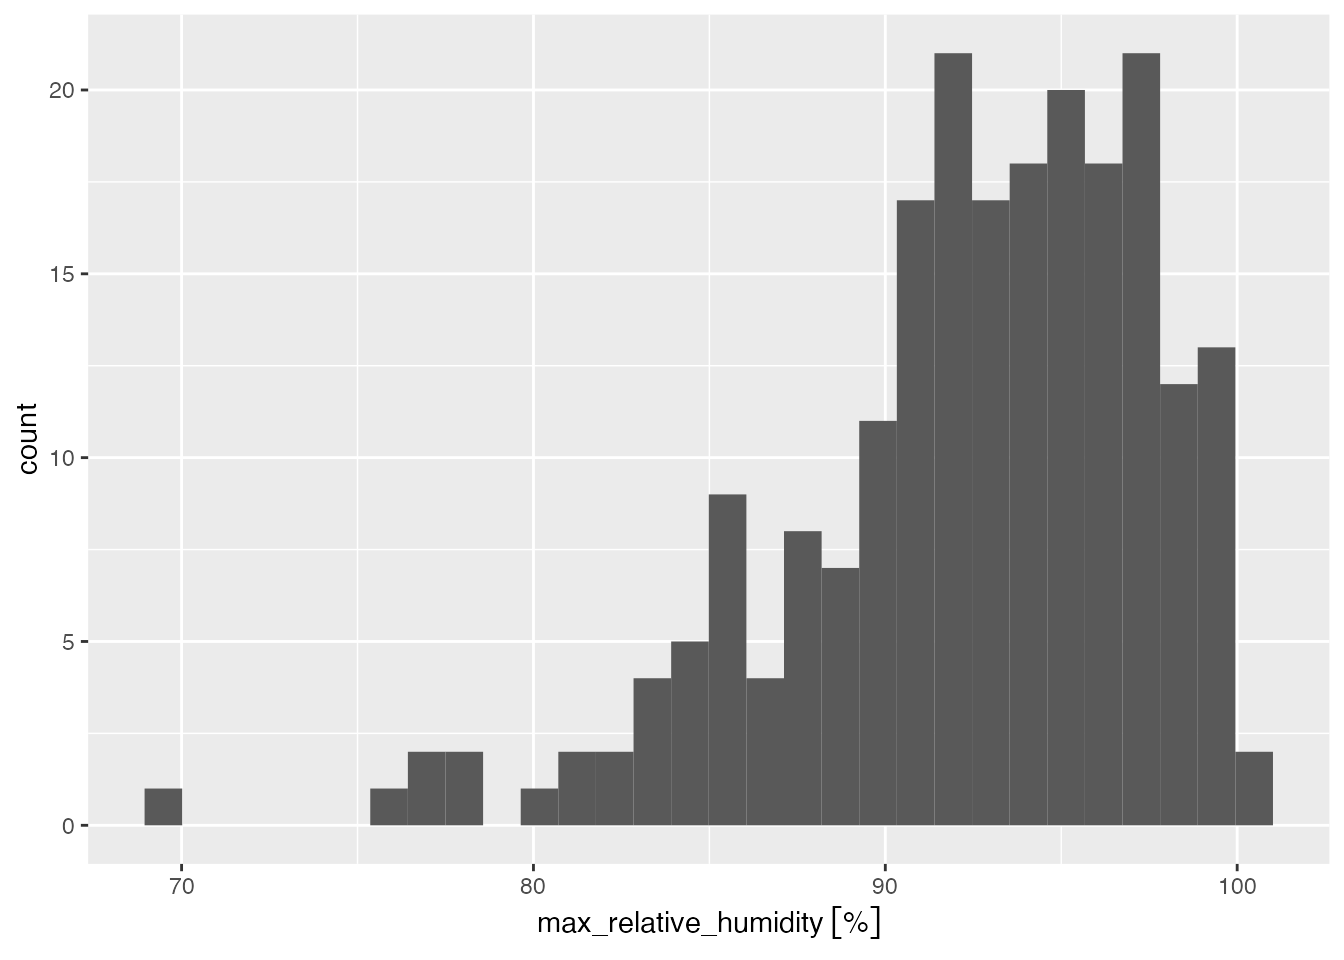
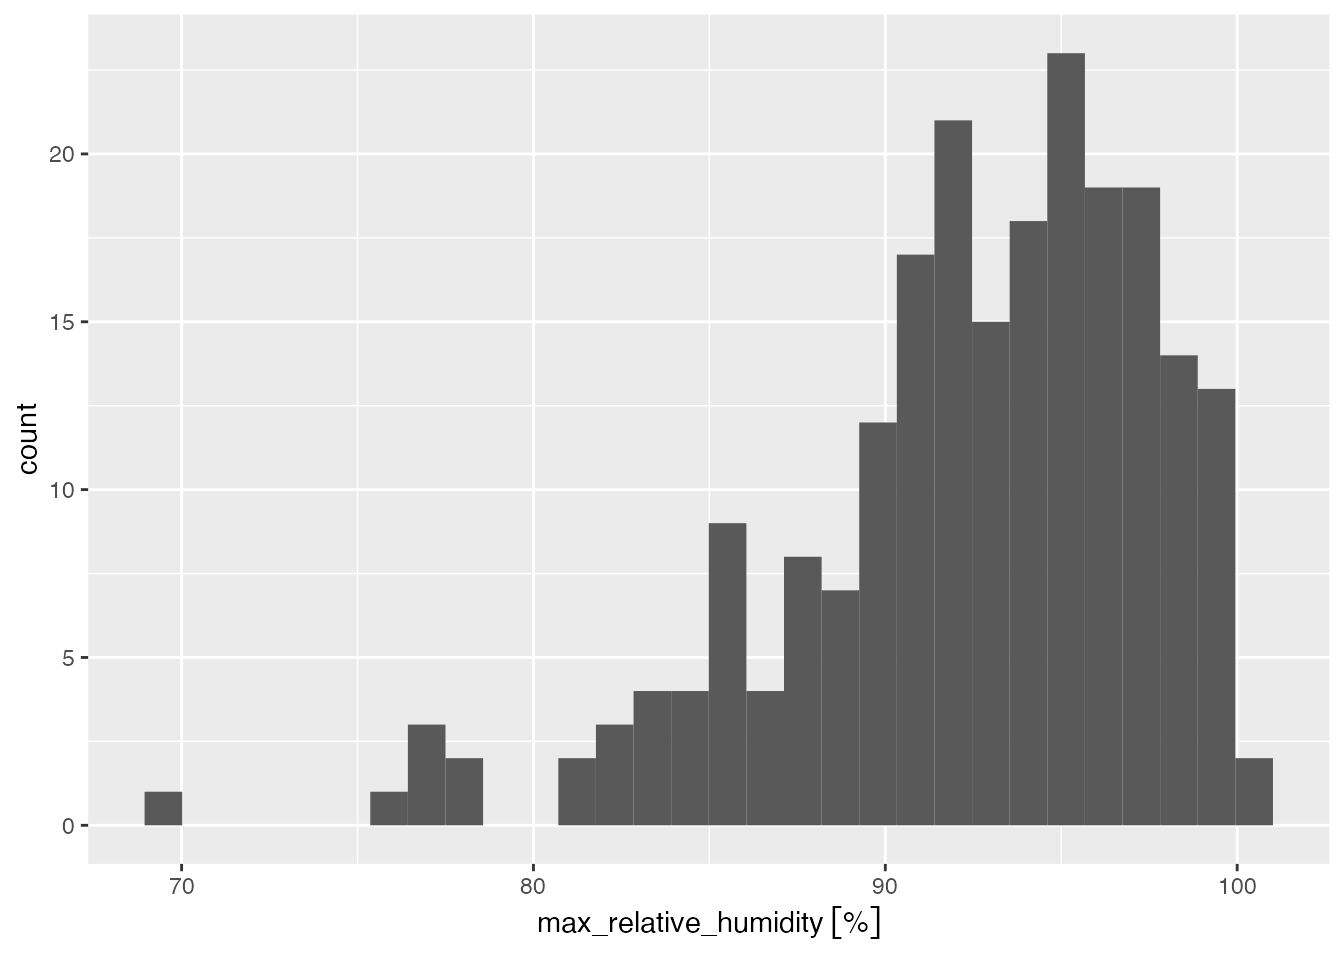
Built site for meteospain: 0.0.4.9000@31310f5

diff --git a/articles/meteoclimatic.html b/articles/meteoclimatic.html
@@ -156,12 +156,12 @@
 <p>Accessing station metadata for Meteoclimatic is simple:</p>
 <div class="sourceCode" id="cb3"><pre class="downlit sourceCode r">
 <code class="sourceCode R"><span><span class="fu"><a href="../reference/get_stations_info_from.html">get_stations_info_from</a></span><span class="op">(</span><span class="st">'meteoclimatic'</span>, options <span class="op">=</span> <span class="va">api_options</span><span class="op">)</span></span>
-<span><span class="co">#&gt; Simple feature collection with 219 features and 3 fields</span></span>
+<span><span class="co">#&gt; Simple feature collection with 222 features and 3 fields</span></span>
 <span><span class="co">#&gt; Geometry type: POINT</span></span>
 <span><span class="co">#&gt; Dimension:     XY</span></span>
 <span><span class="co">#&gt; Bounding box:  xmin: 1.59 ymin: 41.22 xmax: 2.72 ymax: 42.26</span></span>
 <span><span class="co">#&gt; Geodetic CRS:  WGS 84</span></span>
-<span><span class="co">#&gt; <span style="color: #949494;"># A tibble: 219 × 4</span></span></span>
+<span><span class="co">#&gt; <span style="color: #949494;"># A tibble: 222 × 4</span></span></span>
 <span><span class="co">#&gt;    service       station_id          station_name          geometry</span></span>
 <span><span class="co">#&gt;  <span style="color: #BCBCBC;">*</span> <span style="color: #949494; font-style: italic;">&lt;chr&gt;</span>         <span style="color: #949494; font-style: italic;">&lt;chr&gt;</span>               <span style="color: #949494; font-style: italic;">&lt;chr&gt;</span>              <span style="color: #949494; font-style: italic;">&lt;POINT [°]&gt;</span></span></span>
 <span><span class="co">#&gt; <span style="color: #BCBCBC;"> 1</span> meteoclimatic ESCAT0800000008591A Aiguafreda (Barc… (2.25 41.77)</span></span>
@@ -174,7 +174,7 @@
 <span><span class="co">#&gt; <span style="color: #BCBCBC;"> 8</span> meteoclimatic ESCAT0800000008911C Badalona - Dalt … (2.26 41.46)</span></span>
 <span><span class="co">#&gt; <span style="color: #BCBCBC;"> 9</span> meteoclimatic ESCAT0800000008917B Badalona - La Pa… (2.22 41.45)</span></span>
 <span><span class="co">#&gt; <span style="color: #BCBCBC;">10</span> meteoclimatic ESCAT0800000008080A Badalona - Llefi… (2.23 41.44)</span></span>
-<span><span class="co">#&gt; <span style="color: #949494;"># … with 209 more rows</span></span></span></code></pre></div>
+<span><span class="co">#&gt; <span style="color: #949494;"># … with 212 more rows</span></span></span></code></pre></div>
 </div>
 <div class="section level3">
 <h3 id="meteoclimatic-data">Meteoclimatic data<a class="anchor" aria-label="anchor" href="#meteoclimatic-data"></a>
@@ -185,25 +185,25 @@
 <span><span class="co"><span style="color: #BBBB00; font-weight: bold;">#&gt; No quality check is performed in this data, and errors in measures or coordinates of stations can be present.</span></span></span>
 <span><span class="co"><span style="color: #BBBB00; font-weight: bold;">#&gt; </span><span style="color: #0000BB; font-weight: bold; text-decoration: underline;">https://www.meteoclimatic.net/index</span></span></span>
 <span><span class="va">current_day_barcelona</span></span>
-<span><span class="co">#&gt; Simple feature collection with 219 features and 9 fields</span></span>
+<span><span class="co">#&gt; Simple feature collection with 222 features and 9 fields</span></span>
 <span><span class="co">#&gt; Geometry type: POINT</span></span>
 <span><span class="co">#&gt; Dimension:     XY</span></span>
 <span><span class="co">#&gt; Bounding box:  xmin: 1.59 ymin: 41.22 xmax: 2.72 ymax: 42.26</span></span>
 <span><span class="co">#&gt; Geodetic CRS:  WGS 84</span></span>
-<span><span class="co">#&gt; <span style="color: #949494;"># A tibble: 219 × 10</span></span></span>
+<span><span class="co">#&gt; <span style="color: #949494;"># A tibble: 222 × 10</span></span></span>
 <span><span class="co">#&gt;    timestamp           service   stati…¹ stati…² min_t…³ max_t…⁴ min_r…⁵ max_r…⁶</span></span>
 <span><span class="co">#&gt;  <span style="color: #BCBCBC;">*</span> <span style="color: #949494; font-style: italic;">&lt;dttm&gt;</span>              <span style="color: #949494; font-style: italic;">&lt;chr&gt;</span>     <span style="color: #949494; font-style: italic;">&lt;chr&gt;</span>   <span style="color: #949494; font-style: italic;">&lt;chr&gt;</span>      <span style="color: #949494;">[°C]</span>    <span style="color: #949494;">[°C]</span>     <span style="color: #949494;">[%]</span>     <span style="color: #949494;">[%]</span></span></span>
-<span><span class="co">#&gt; <span style="color: #BCBCBC;"> 1</span> 2022-12-07 <span style="color: #949494;">08:15:00</span> meteocli… ESCAT0… Barcel…    10.2    11        80      91</span></span>
-<span><span class="co">#&gt; <span style="color: #BCBCBC;"> 2</span> 2022-12-07 <span style="color: #949494;">08:15:00</span> meteocli… ESCAT0… La Pob…    -<span style="color: #BB0000;">0.1</span>     2.2      90      92</span></span>
-<span><span class="co">#&gt; <span style="color: #BCBCBC;"> 3</span> 2022-12-07 <span style="color: #949494;">08:17:00</span> meteocli… ESCAT0… Granol…     5       8.2      91      97</span></span>
-<span><span class="co">#&gt; <span style="color: #BCBCBC;"> 4</span> 2022-12-07 <span style="color: #949494;">08:19:00</span> meteocli… ESCAT0… Vallro…     3.8     7.7      95      97</span></span>
-<span><span class="co">#&gt; <span style="color: #BCBCBC;"> 5</span> 2022-12-07 <span style="color: #949494;">08:20:00</span> meteocli… ESCAT0… Vic - …     0.2     5.3      88      96</span></span>
-<span><span class="co">#&gt; <span style="color: #BCBCBC;"> 6</span> 2022-12-07 <span style="color: #949494;">08:20:00</span> meteocli… ESCAT0… Cusson…    -<span style="color: #BB0000;">0.7</span>     1        95      97</span></span>
-<span><span class="co">#&gt; <span style="color: #BCBCBC;"> 7</span> 2022-12-07 <span style="color: #949494;">08:21:00</span> meteocli… ESCAT0… Barcel…     6.8     9.6      87      96</span></span>
-<span><span class="co">#&gt; <span style="color: #BCBCBC;"> 8</span> 2022-12-07 <span style="color: #949494;">08:21:00</span> meteocli… ESCAT0… Dosriu…     3.2     8        94      97</span></span>
-<span><span class="co">#&gt; <span style="color: #BCBCBC;"> 9</span> 2022-12-07 <span style="color: #949494;">08:21:00</span> meteocli… ESCAT0… Sant C…     4.5     8.9      91      97</span></span>
-<span><span class="co">#&gt; <span style="color: #BCBCBC;">10</span> 2022-12-07 <span style="color: #949494;">08:22:00</span> meteocli… ESCAT0… Barcel…     9.7    11.4      79      88</span></span>
-<span><span class="co">#&gt; <span style="color: #949494;"># … with 209 more rows, 2 more variables: precipitation [L/m^2],</span></span></span>
+<span><span class="co">#&gt; <span style="color: #BCBCBC;"> 1</span> 2022-12-07 <span style="color: #949494;">08:25:00</span> meteocli… ESCAT0… Palau-…     4.1     7.2      90      96</span></span>
+<span><span class="co">#&gt; <span style="color: #BCBCBC;"> 2</span> 2022-12-07 <span style="color: #949494;">08:30:00</span> meteocli… ESCAT0… La Pob…    -<span style="color: #BB0000;">0.1</span>     2.2      90      92</span></span>
+<span><span class="co">#&gt; <span style="color: #BCBCBC;"> 3</span> 2022-12-07 <span style="color: #949494;">08:30:00</span> meteocli… ESCAT0… Sant B…     7.1     9.3      87      91</span></span>
+<span><span class="co">#&gt; <span style="color: #BCBCBC;"> 4</span> 2022-12-07 <span style="color: #949494;">08:32:00</span> meteocli… ESCAT0… Granol…     5       8.2      91      97</span></span>
+<span><span class="co">#&gt; <span style="color: #BCBCBC;"> 5</span> 2022-12-07 <span style="color: #949494;">08:34:00</span> meteocli… ESCAT0… Vallro…     3.8     7.7      95      97</span></span>
+<span><span class="co">#&gt; <span style="color: #BCBCBC;"> 6</span> 2022-12-07 <span style="color: #949494;">08:34:00</span> meteocli… ESCAT0… Cornet…     1.8     4.9      96      99</span></span>
+<span><span class="co">#&gt; <span style="color: #BCBCBC;"> 7</span> 2022-12-07 <span style="color: #949494;">08:35:00</span> meteocli… ESCAT0… St Mat…     4.1     6.8      99      99</span></span>
+<span><span class="co">#&gt; <span style="color: #BCBCBC;"> 8</span> 2022-12-07 <span style="color: #949494;">08:35:00</span> meteocli… ESCAT0… Vallir…     8.3    11.4      80      92</span></span>
+<span><span class="co">#&gt; <span style="color: #BCBCBC;"> 9</span> 2022-12-07 <span style="color: #949494;">08:36:00</span> meteocli… ESCAT0… Barcel…     6.8     9.6      87      96</span></span>
+<span><span class="co">#&gt; <span style="color: #BCBCBC;">10</span> 2022-12-07 <span style="color: #949494;">08:36:00</span> meteocli… ESCAT0… Barcel…    10.2    11.5      77      91</span></span>
+<span><span class="co">#&gt; <span style="color: #949494;"># … with 212 more rows, 2 more variables: precipitation [L/m^2],</span></span></span>
 <span><span class="co">#&gt; <span style="color: #949494;">#   geometry &lt;POINT [°]&gt;, and abbreviated variable names ¹station_id,</span></span></span>
 <span><span class="co">#&gt; <span style="color: #949494;">#   ²station_name, ³min_temperature, ⁴max_temperature, ⁵min_relative_humidity,</span></span></span>
 <span><span class="co">#&gt; <span style="color: #949494;">#   ⁶max_relative_humidity</span></span></span></code></pre></div>

diff --git a/articles/aemet.html b/articles/aemet.html
@@ -241,6 +241,8 @@ To obtain the API Key, please visit <a href="https://opendata.aemet.es/centroded
 <span>  api_key <span class="op">=</span> <span class="fu"><a href="https://rdrr.io/pkg/keyring/man/key_get.html" class="external-link">key_get</a></span><span class="op">(</span><span class="st">'aemet'</span><span class="op">)</span></span>
 <span><span class="op">)</span></span>
 <span><span class="va">spain_20200425</span> <span class="op">&lt;-</span> <span class="fu"><a href="../reference/get_meteo_from.html">get_meteo_from</a></span><span class="op">(</span><span class="st">'aemet'</span>, options <span class="op">=</span> <span class="va">api_options</span><span class="op">)</span></span>
+<span><span class="co">#&gt; <span style="color: #BBBB00; font-weight: bold;">Data received</span></span></span>
+<span><span class="co">#&gt; Trying again in 60 seconds</span></span>
 <span><span class="co">#&gt; <span style="color: #BBBB00; font-weight: bold;">© AEMET. Autorizado el uso de la información y su reproducción citando a AEMET como autora de la misma.</span></span></span>
 <span><span class="co">#&gt; <span style="color: #0000BB; font-weight: bold; text-decoration: underline;">http://www.aemet.es/es/nota_legal</span></span></span>
 <span><span class="va">spain_20200425</span></span>
